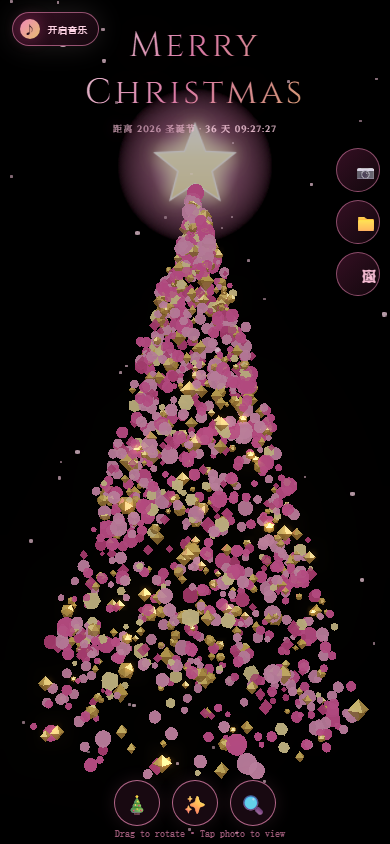
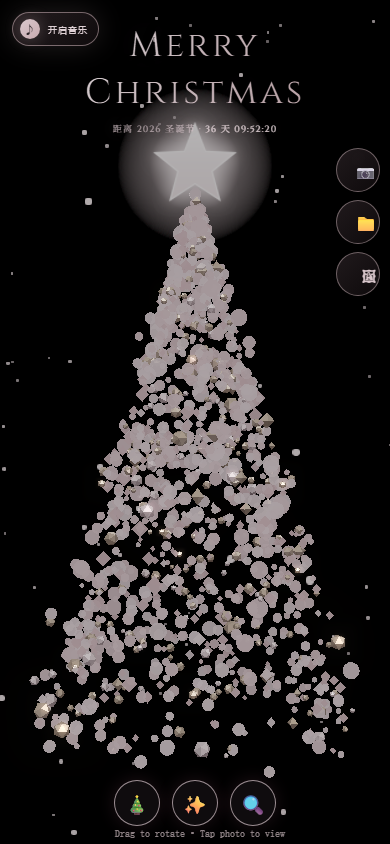
Revert "style: brighten rose and gold particle palette"
This reverts commit 21b2dcffcef3640b6abac51d44644f52d38ad034.

diff --git a/christmas_tree_touch&gesture.html b/christmas_tree_touch&gesture.html
@@ -21,9 +21,9 @@
             margin: 0;
             overflow: hidden;
             background:
-                radial-gradient(circle at 50% 46%, rgba(133, 43, 84, 0.3) 0%, rgba(53, 20, 34, 0.26) 30%, transparent 58%),
-                radial-gradient(circle at center, #1d0c15 0%, #0d070b 56%, #050305 100%);
-            background-color: #080406;
+                radial-gradient(circle at 50% 46%, rgba(135, 105, 114, 0.24) 0%, rgba(50, 35, 40, 0.24) 30%, transparent 58%),
+                radial-gradient(circle at center, #181315 0%, #0c080a 56%, #050304 100%);
+            background-color: #070506;
             font-family: 'Times New Roman', serif;
             touch-action: none;
             user-select: none;
@@ -48,28 +48,28 @@
         /* Loading */
         #loader {
             position: absolute; top: 0; left: 0; width: 100%; height: 100%;
-            background: #0b0508; z-index: 100;
+            background: #090607; z-index: 100;
             display: flex; flex-direction: column; align-items: center; justify-content: center;
             transition: opacity 0.8s ease-out;
         }
         .loader-text {
-            color: #f2a3c4; font-size: 14px; letter-spacing: 4px; margin-top: 20px;
+            color: #dac8cd; font-size: 14px; letter-spacing: 4px; margin-top: 20px;
             text-transform: uppercase; font-weight: 100;
         }
         .spinner {
-            width: 40px; height: 40px; border: 1px solid rgba(240, 138, 184, 0.25);
-            border-top: 1px solid #f08ab8; border-radius: 50%;
+            width: 40px; height: 40px; border: 1px solid rgba(210, 185, 190, 0.22);
+            border-top: 1px solid #dac8cd; border-radius: 50%;
             animation: spin 1s linear infinite;
         }
         @keyframes spin { 0% { transform: rotate(0deg); } 100% { transform: rotate(360deg); } }
 
         /* Typography */
         h1 {
-            color: #ffe4ef; font-size: 8vw;
+            color: #e7dadd; font-size: 8vw;
             max-width: 56px; margin: 0; font-weight: 400;
             letter-spacing: 6px;
-            text-shadow: 0 0 50px rgba(232, 77, 145, 0.32);
-            background: linear-gradient(115deg, #fff4f8 5%, #f08ab8 48%, #e8bd6c 100%);
+            text-shadow: 0 0 50px rgba(210, 185, 190, 0.3);
+            background: linear-gradient(115deg, #f5eff1 5%, #dac8cd 48%, #c8aaaf 100%);
             -webkit-background-clip: text; -webkit-text-fill-color: transparent;
             font-family: 'Cinzel', 'Times New Roman', serif;
             opacity: 0.9; transition: opacity 0.5s ease;
@@ -79,19 +79,19 @@
 
         .countdown-line {
             margin: 12px 0 0;
-            color: rgba(248, 194, 218, 0.78);
+            color: rgba(218, 200, 205, 0.76);
             font-family: 'Cinzel', Georgia, serif;
             font-size: 11px;
             font-variant-numeric: tabular-nums;
             letter-spacing: 2.2px;
             line-height: 1.5;
             text-align: center;
-            text-shadow: 0 0 14px rgba(232, 77, 145, 0.3);
+            text-shadow: 0 0 14px rgba(200, 170, 175, 0.28);
             pointer-events: none;
         }
 
         .countdown-line strong {
-            color: #ffd1e3;
+            color: #e4d4d8;
             font-weight: 400;
         }
 
@@ -115,9 +115,9 @@
         }
 
         .control-btn {
-            background: linear-gradient(135deg, rgba(62, 18, 41, 0.84), rgba(24, 10, 17, 0.76));
-            border: 1px solid rgba(240, 138, 184, 0.52);
-            color: #f8bed5; padding: 10px 20px;
+            background: linear-gradient(135deg, rgba(39, 31, 34, 0.82), rgba(19, 14, 16, 0.74));
+            border: 1px solid rgba(210, 185, 190, 0.48);
+            color: #dac8cd; padding: 10px 20px;
             cursor: pointer; text-transform: uppercase;
             letter-spacing: 2px; font-size: 10px;
             transition: all 0.4s;
@@ -126,12 +126,12 @@
         }
 
         .control-btn.active {
-            background: #e84d91; color: #fff7fa;
-            box-shadow: 0 0 20px rgba(232, 77, 145, 0.42);
+            background: #d2b9be; color: #251d20;
+            box-shadow: 0 0 20px rgba(210, 185, 190, 0.38);
         }
         .control-btn:hover {
-            background: linear-gradient(135deg, #f08ab8, #e6bd6f); color: #2a101c;
-            box-shadow: 0 0 20px rgba(232, 77, 145, 0.38);
+            background: linear-gradient(135deg, #dac8cd, #c8aaaf); color: #251d20;
+            box-shadow: 0 0 20px rgba(210, 185, 190, 0.34);
         }
 
         .hint-text {
@@ -151,15 +151,15 @@
         }
         .mode-btn {
             width: 50px; height: 50px; border-radius: 50%;
-            background: rgba(31, 11, 22, 0.78);
-            border: 1px solid rgba(240, 138, 184, 0.72);
-            color: #ffd1e3; font-size: 20px;
+            background: rgba(20, 16, 18, 0.76);
+            border: 1px solid rgba(218, 200, 205, 0.7);
+            color: #e1d3d7; font-size: 20px;
             display: flex; align-items: center; justify-content: center;
             cursor: pointer; transition: all 0.3s;
             backdrop-filter: blur(8px);
             box-shadow: 0 0 18px rgba(244, 142, 184, 0.12);
         }
-        .mode-btn:active { transform: scale(0.9); background: linear-gradient(135deg, #f08ab8, #e84d91); color: #fff7fa; }
+        .mode-btn:active { transform: scale(0.9); background: linear-gradient(135deg, #dac8cd, #c8aaaf); color: #251d20; }
 
         #music-toggle {
             position: fixed;
@@ -171,10 +171,10 @@
             gap: 8px;
             min-height: 40px;
             padding: 0 14px 0 10px;
-            border: 1px solid rgba(240, 138, 184, 0.56);
+            border: 1px solid rgba(210, 185, 190, 0.52);
             border-radius: 999px;
-            background: linear-gradient(135deg, rgba(66, 19, 43, 0.88), rgba(24, 10, 17, 0.78));
-            color: #ffd4e5;
+            background: linear-gradient(135deg, rgba(43, 34, 37, 0.86), rgba(20, 15, 17, 0.76));
+            color: #dfd1d5;
             font-family: "PingFang SC", "Microsoft YaHei", sans-serif;
             font-size: 11px;
             letter-spacing: 1px;
@@ -202,11 +202,11 @@
             width: 24px;
             height: 24px;
             border-radius: 50%;
-            background: linear-gradient(135deg, #f08ab8, #e6bd6f);
-            color: #2a101c;
+            background: linear-gradient(135deg, #dac8cd, #c8aaaf);
+            color: #2a2225;
             font-size: 14px;
             line-height: 1;
-            box-shadow: 0 0 16px rgba(232, 77, 145, 0.34);
+            box-shadow: 0 0 16px rgba(210, 185, 190, 0.3);
         }
 
         #music-toggle.is-pending .music-note {
@@ -233,7 +233,7 @@
 
         #debug-info {
             position: absolute; bottom: 5px; left: 5px;
-            color: rgba(240, 138, 184, 0.66); font-size: 10px;
+            color: rgba(218, 200, 205, 0.65); font-size: 10px;
             font-family: monospace; pointer-events: none; z-index: 51;
             width: 100%; text-align: center;
         }
@@ -243,7 +243,7 @@
             transform: translate(-50%, -50%);
             background: rgba(0, 0, 0, 0.9);
             border: 1px solid #d4af37;
-            padding: 20px; color: #f5b5cf;
+            padding: 20px; color: #dac8cd;
             z-index: 200; text-align: center;
             display: none; border-radius: 8px; min-width: 200px;
         }
@@ -272,7 +272,7 @@
             -webkit-backdrop-filter: blur(10px);
             padding: 15px;
             border-radius: 12px;
-            border: 1px solid rgba(232, 77, 145, 0.24);
+            border: 1px solid rgba(210, 185, 190, 0.24);
             box-shadow: 0 4px 30px rgba(0, 0, 0, 0.5);
             width: 200px; /* 固定宽度，确保整齐 */
             transition: all 0.3s ease;
@@ -306,12 +306,12 @@
 
         .stats-title {
             font-family: 'Cinzel', serif;
-            color: rgba(240, 138, 184, 0.9);
+            color: rgba(218, 200, 205, 0.9);
             font-size: 10px;
             letter-spacing: 2px;
             text-align: center;
             margin-bottom: 5px;
-            border-bottom: 1px solid rgba(232, 77, 145, 0.17);
+            border-bottom: 1px solid rgba(210, 185, 190, 0.16);
             padding-bottom: 5px;
         }
 
@@ -529,11 +529,11 @@
             colors: {
                 bg: 0x09030c,
                 fog: 0x09030c,
-                champagneGold: 0xf0c75e,
-                roseGold: 0xc63c76,
-                blushPink: 0xf08ab8,
-                vividRose: 0xe84d91,
-                palePink: 0xffb8d3
+                champagneGold: 0xd8c5ae,
+                roseGold: 0xc8aaaf,
+                blushPink: 0xdac8cd,
+                vividRose: 0xd2b9be,
+                palePink: 0xe4d7da
             },
             particles: {
                 count: IS_MOBILE ? 1550 : 2200,
@@ -697,7 +697,7 @@
             renderer.setSize(window.innerWidth, window.innerHeight);
             renderer.setPixelRatio(Math.min(window.devicePixelRatio, IS_MOBILE ? 1.7 : 2));
             renderer.toneMapping = THREE.ReinhardToneMapping;
-            renderer.toneMappingExposure = 1.6;
+            renderer.toneMappingExposure = 1.55;
             container.appendChild(renderer.domElement);
             mainGroup = new THREE.Group();
             scene.add(mainGroup);
@@ -709,19 +709,19 @@
         }
 
         function setupLights() {
-            const ambient = new THREE.AmbientLight(0xffe1ed, 0.68);
+            const ambient = new THREE.AmbientLight(0xe0cdd2, 0.58);
             scene.add(ambient);
-            const innerLight = new THREE.PointLight(0xf06ba4, 2.0, 24);
+            const innerLight = new THREE.PointLight(0xd2b9be, 1.6, 24);
             innerLight.position.set(0, 5, 0);
             mainGroup.add(innerLight);
-            const spotGold = new THREE.SpotLight(0xf0c75e, 1280);
+            const spotGold = new THREE.SpotLight(0xd8c5ae, 950);
             spotGold.position.set(30, 40, 40); spotGold.angle = 0.5; spotGold.penumbra = 0.5;
             scene.add(spotGold);
-            const spotRose = new THREE.SpotLight(0xe84d91, 960);
+            const spotRose = new THREE.SpotLight(0xc8aaaf, 820);
             spotRose.position.set(-30, 18, -28);
             spotRose.angle = 0.62; spotRose.penumbra = 0.7;
             scene.add(spotRose);
-            const fill = new THREE.DirectionalLight(0xffd3e4, 0.78);
+            const fill = new THREE.DirectionalLight(0xdac8cd, 0.66);
             fill.position.set(10, -5, 50);
             scene.add(fill);
         }
@@ -729,7 +729,7 @@
         function setupPostProcessing() {
             const renderScene = new RenderPass(scene, camera);
             const bloomPass = new UnrealBloomPass(new THREE.Vector2(window.innerWidth, window.innerHeight), 1.25, 0.5, 0.78);
-            bloomPass.threshold = 0.66; bloomPass.strength = 0.48; bloomPass.radius = 0.48;
+            bloomPass.threshold = 0.72; bloomPass.strength = 0.42; bloomPass.radius = 0.46;
             composer = new EffectComposer(renderer);
             composer.addPass(renderScene);
             composer.addPass(bloomPass);
@@ -766,7 +766,7 @@
             geometry.setAttribute('position', new THREE.Float32BufferAttribute(vertices, 3));
             geometry.setAttribute('userData', new THREE.Float32BufferAttribute(velocities, 2));
             const material = new THREE.PointsMaterial({
-                color: 0xffc8df, size: 0.44, map: snowTexture, transparent: true, opacity: 0.74, blending: THREE.AdditiveBlending, depthWrite: false
+                color: 0xe4d7da, size: 0.44, map: snowTexture, transparent: true, opacity: 0.72, blending: THREE.AdditiveBlending, depthWrite: false
             });
             snowSystem = new THREE.Points(geometry, material);
             scene.add(snowSystem);
@@ -949,26 +949,29 @@
                 metalness: 0.55,
                 roughness: 0.3,
                 envMapIntensity: 1.2,
-                emissive: 0x6b4b13,
-                emissiveIntensity: 0.5,
+                emissive: 0x493f35,
+                emissiveIntensity: 0.34,
                 transparent: true,
                 opacity: 0.93
             });
-            const paleGoldMat = new THREE.MeshBasicMaterial({
-                color: 0xf5d98c,
+            const paleGoldMat = new THREE.MeshStandardMaterial({
+                color: 0xe7d9dc,
+                metalness: 0.28,
+                roughness: 0.38,
+                emissive: 0x4b4144,
+                emissiveIntensity: 0.26,
                 transparent: true,
-                opacity: 0.9,
-                toneMapped: false
+                opacity: 0.86
             });
             const materials = [pinkMat, blushMat, roseGoldMat, goldMat, paleGoldMat];
             const geometries = [sphereGeo, facetGeo, softGeo];
             for (let i = 0; i < CONFIG.particles.count; i++) {
                 const rand = Math.random();
                 const materialIndex =
-                    rand < 0.3 ? 0 :
-                    rand < 0.57 ? 1 :
-                    rand < 0.7 ? 2 :
-                    rand < 0.94 ? 3 : 4;
+                    rand < 0.34 ? 0 :
+                    rand < 0.64 ? 1 :
+                    rand < 0.82 ? 2 :
+                    rand < 0.95 ? 3 : 4;
                 const geometryIndex =
                     rand < 0.6 ? 0 :
                     rand < 0.84 ? 1 : 2;
@@ -979,10 +982,9 @@
                 const type =
                     materialIndex < 2 ? 'PINK' :
                     materialIndex === 4 ? 'PALE_GOLD' : 'GOLD';
-                let s = Math.random() < 0.86
+                const s = Math.random() < 0.86
                     ? 0.24 + Math.random() * 0.32
                     : 0.5 + Math.random() * 0.34;
-                if (materialIndex >= 3) s *= 1.14;
                 mesh.scale.set(s,s,s); mesh.rotation.set(Math.random()*6, Math.random()*6, Math.random()*6);
                 mainGroup.add(mesh);
                 particleSystem.push(new Particle(mesh, type, false));
@@ -992,10 +994,10 @@
             starCanvas.height = 256;
             const starContext = starCanvas.getContext("2d");
             const starGlow = starContext.createRadialGradient(128, 128, 0, 128, 128, 126);
-            starGlow.addColorStop(0, "rgba(255, 248, 251, 0.96)");
-            starGlow.addColorStop(0.22, "rgba(240, 138, 184, 0.56)");
-            starGlow.addColorStop(0.58, "rgba(232, 77, 145, 0.16)");
-            starGlow.addColorStop(1, "rgba(198, 60, 118, 0)");
+            starGlow.addColorStop(0, "rgba(247, 240, 242, 0.96)");
+            starGlow.addColorStop(0.22, "rgba(218, 200, 205, 0.54)");
+            starGlow.addColorStop(0.58, "rgba(200, 170, 175, 0.13)");
+            starGlow.addColorStop(1, "rgba(200, 170, 175, 0)");
             starContext.fillStyle = starGlow;
             starContext.fillRect(0, 0, 256, 256);
             starContext.save();
@@ -1011,16 +1013,16 @@
             }
             starContext.closePath();
             const starFill = starContext.createLinearGradient(0, -68, 0, 68);
-            starFill.addColorStop(0, "#fff9e8");
-            starFill.addColorStop(0.4, "#f6d681");
-            starFill.addColorStop(0.76, "#e8bd65");
-            starFill.addColorStop(1, "#c99642");
+            starFill.addColorStop(0, "#f6eef0");
+            starFill.addColorStop(0.46, "#dac8cd");
+            starFill.addColorStop(0.78, "#d2b9be");
+            starFill.addColorStop(1, "#c8aaaf");
             starContext.fillStyle = starFill;
-            starContext.shadowColor = "rgba(240, 199, 94, 0.78)";
+            starContext.shadowColor = "rgba(210, 185, 190, 0.8)";
             starContext.shadowBlur = 28;
             starContext.fill();
             starContext.shadowBlur = 0;
-            starContext.strokeStyle = "rgba(255, 241, 247, 0.92)";
+            starContext.strokeStyle = "rgba(247, 241, 243, 0.9)";
             starContext.lineWidth = 2;
             starContext.stroke();
             starContext.restore();
@@ -1042,14 +1044,14 @@
         function createDust() {
             const geo = new THREE.TetrahedronGeometry(0.08, 0);
             const pinkGlow = new THREE.MeshBasicMaterial({
-                color: 0xe84d91,
+                color: 0xd2b9be,
                 transparent: true,
                 opacity: 0.72,
                 blending: THREE.AdditiveBlending,
                 depthWrite: false
             });
             const goldGlow = new THREE.MeshBasicMaterial({
-                color: 0xf0c75e,
+                color: 0xdac8cd,
                 transparent: true,
                 opacity: 0.68,
                 blending: THREE.AdditiveBlending,

diff --git a/README.md b/README.md
@@ -12,7 +12,7 @@
 
 虽然只有几百行代码，但视觉效果拉满了（特别是在大屏幕上）。
 
-![高饱和玫粉与金色粒子圣诞树](preview.png)
+![低饱和粉与浅香槟粒子圣诞树](preview.png)
 
 点击下面的链接可以直接访问：支持全平台
 https://electronicminer.github.io/gesture-Christmas_tree-3d_with_photo/christmas_tree_touch&gesture.html
@@ -22,13 +22,13 @@ https://electronicminer.github.io/gesture-Christmas_tree-3d_with_photo/christmas
 
 ## 🤔 这是啥？(Intro)
 
-这不是那种静态的网页贺卡。这是一棵由 **高饱和玫粉与金色粒子** 组成的动态圣诞树。
+这不是那种静态的网页贺卡。这是一棵由 **低饱和粉色与浅香槟粒子** 组成的动态圣诞树。
 我接入了 Google 的 MediaPipe，所以它能看懂你的手势。
 
-* **粒子特效**：`#E84D91`、`#F08AB8`、`#C63C76` 玫粉粒子与金色点缀构成分层树冠，树会呼吸、旋转，还能炸裂成满天星。
+* **粒子特效**：`#D2B9BE`、`#C8AAAF`、`#DAC8CD` 低饱和粉色粒子构成分层树冠，树会呼吸、旋转，还能炸裂成满天星。
 * **隔空控物**：不需要鼠标，对着摄像头挥挥手就能控制它（感觉像奇异博士）。
 * **挂载回忆**：点右上角的按钮上传照片，它们会变成带金框的拍立得，飘在树周围。
-* **玫粉审美**：深色夜空搭配高饱和玫粉与金色，形成鲜明、华丽的圣诞氛围。
+* **低饱和审美**：深色夜空搭配低饱和粉与浅香槟色，保留精致、柔和的圣诞氛围。
 * **背景音乐**：页面包含《All I Want for Christmas Is You》，首次轻触页面或音乐按钮后播放。
 <img width="2557" height="1291" alt="image" src="https://github.com/user-attachments/assets/d7d31b4c-bf4d-49b2-b922-79813bbddba5" />
 
